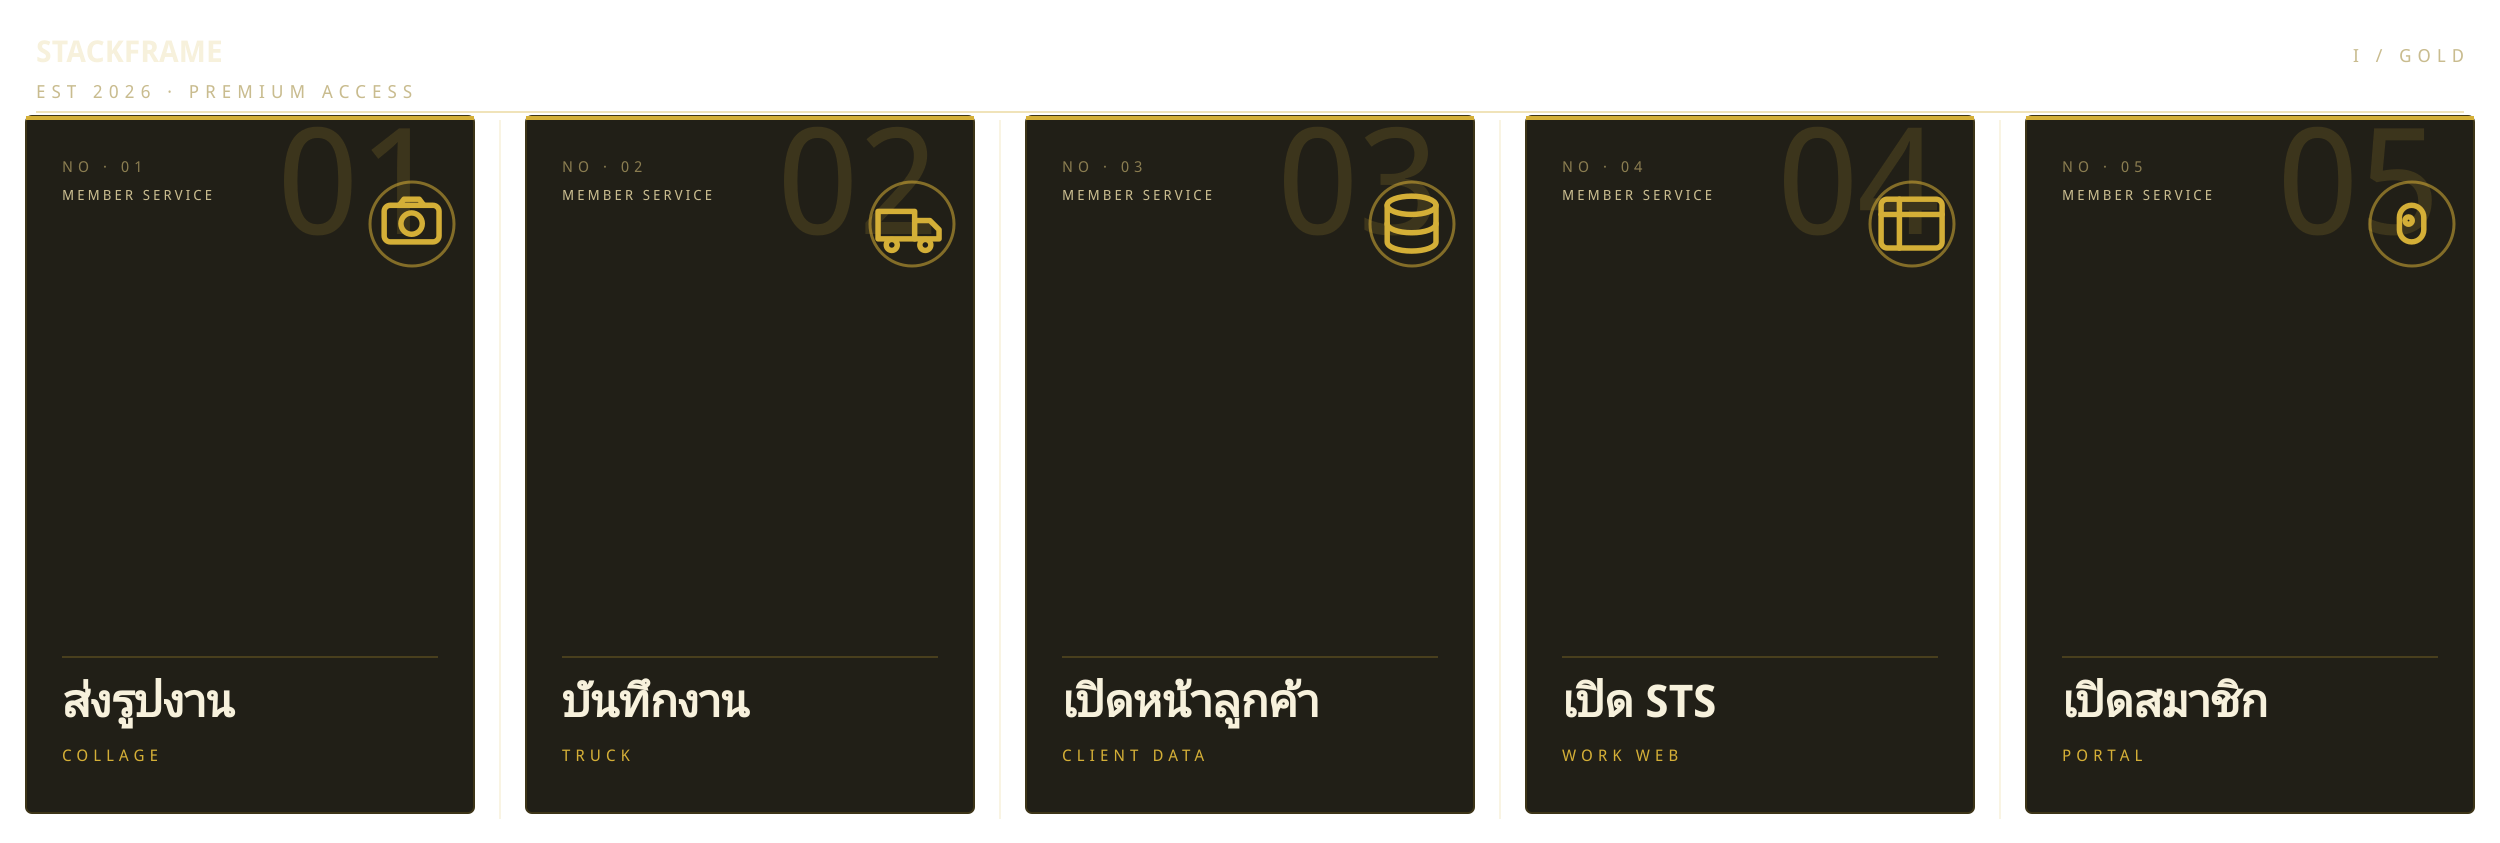
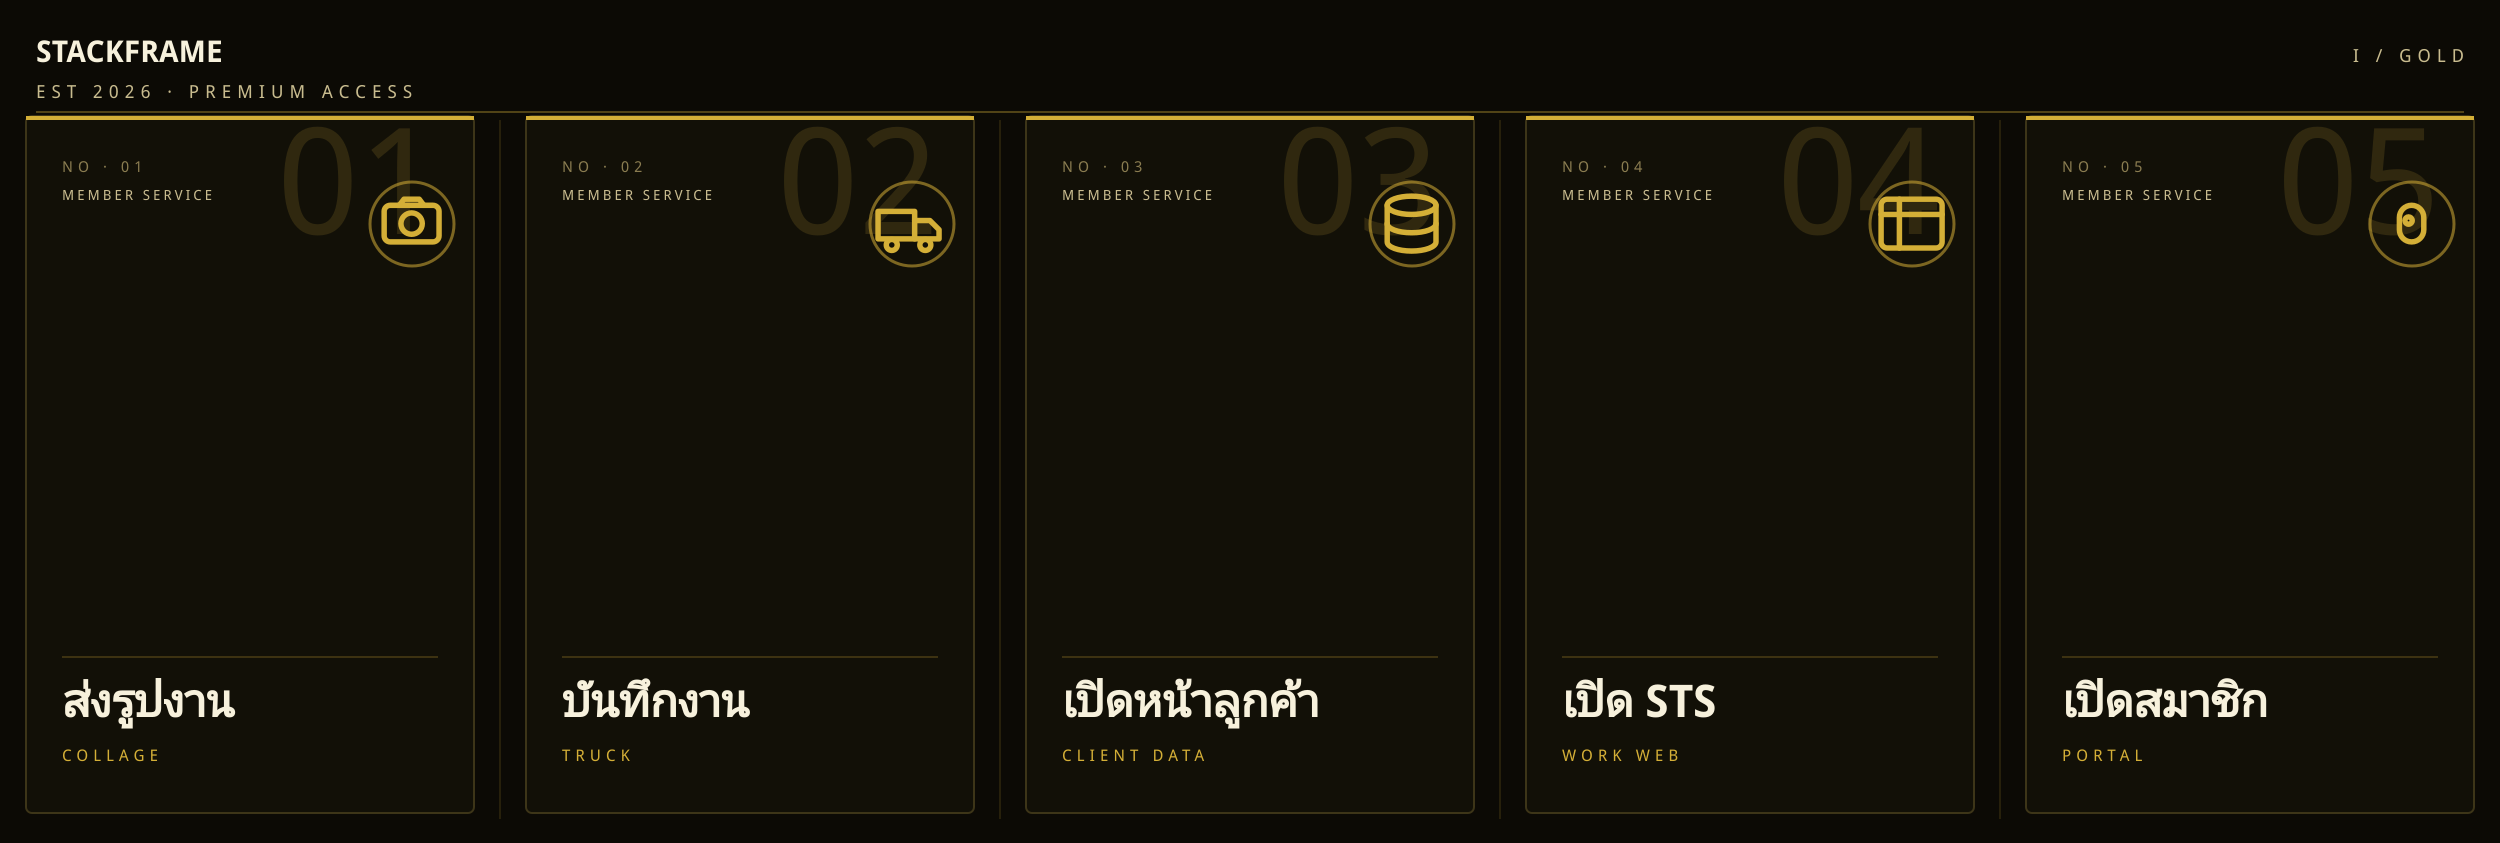
fix(richmenu): eliminate pure #000 pixels - off-black floors + solid backing rects
Pure black (0,0,0) pixels rendered as white on some phones. Fix:
- Solid off-black backing rect under every SVG-gradient base (studio,
  editorial, mono, gold) so sharp never leaves transparent-\>black pixels
- TYPO palette bg changed #000000 -> #0a0a0a..#121212
- NEO: 10% off-black lift over the whole composite
Verified all 9 variants now have 0.0000% pure-#000 pixels.
Redeployed ROYAL GOLD as default.

Changed region(s): [[0.0, 0.0, 1.0, 1.0]]

diff --git a/frontend/previews/richmenu/index.html b/frontend/previews/richmenu/index.html
@@ -1,5 +1,5 @@
 <!doctype html><html lang="th"><head><meta charset="utf-8"><meta name="viewport" content="width=device-width,initial-scale=1">
-<title>Rich menu redesign · 5 concepts</title>
+<title>Rich menu redesign · 9 concepts</title>
 <style>
   :root{--bg:#0d0d10;--ink:#f4f4f0;--dim:#a1a1a8;--line:#2a2a32;--acc:#c7f464}
   *{box-sizing:border-box}body{margin:0;background:var(--bg);color:var(--ink);font:15px/1.5 system-ui,-apple-system,'Segoe UI',Roboto,sans-serif}
@@ -15,7 +15,7 @@
   footer code{background:#1e2129;padding:2px 6px;border-radius:6px}
 </style></head><body>
 <header><h1>Rich menu redesign · STACK<span style="color:var(--acc)">//</span>FRAME</h1>
-<p>5 concepts, 2500×843, black backgrounds. Tap areas identical in all: 5 ปุ่มเรียงแถวเดียว (ส่งรูปงาน LIFF · บันทึกงาน truck · เปิดหน้าลูกค้า data · เปิด STS oms.cfwenterprise.com/sts · เปิดสมาชิก me.mcky.space)</p></header>
+<p>9 concepts, 2500×843, black backgrounds. Tap areas identical in all: 5 ปุ่มเรียงแถวเดียว (ส่งรูปงาน LIFF · บันทึกงาน truck · เปิดหน้าลูกค้า data · เปิด STS oms.cfwenterprise.com/sts · เปิดสมาชิก me.mcky.space)</p></header>
 <div class="grid">
 <div class="card"><img src="b-neo-web.jpg" alt="NEO GRID">
 <div class="meta"><b>NEO GRID</b><span>NEON CYAN x MAGENTA</span></div>
@@ -27,7 +27,15 @@
 <div class="meta"><b>EDITORIAL</b><span>DARK POSTER / HIGH CONTRAST</span></div>
 <p class="note">Full size: <a href="d-editorial.png" style="color:#7db8ff">d-editorial.png</a></p></div><div class="card"><img src="e-mono-web.jpg" alt="MONO TYPE">
 <div class="meta"><b>MONO TYPE</b><span>MONOCHROME · BIG TYPE</span></div>
-<p class="note">Full size: <a href="e-mono.png" style="color:#7db8ff">e-mono.png</a></p></div>
+<p class="note">Full size: <a href="e-mono.png" style="color:#7db8ff">e-mono.png</a></p></div><div class="card"><img src="f-noir-web.jpg" alt="NOIR NIGHTS">
+<div class="meta"><b>NOIR NIGHTS</b><span>FILM NOIR / CRIMSON NEON</span></div>
+<p class="note">Full size: <a href="f-noir.png" style="color:#7db8ff">f-noir.png</a></p></div><div class="card"><img src="g-volt-web.jpg" alt="SITE VOLT">
+<div class="meta"><b>SITE VOLT</b><span>INDUSTRIAL / HAZARD</span></div>
+<p class="note">Full size: <a href="g-volt.png" style="color:#7db8ff">g-volt.png</a></p></div><div class="card"><img src="h-core-web.jpg" alt="DATA CORE">
+<div class="meta"><b>DATA CORE</b><span>TERMINAL / CYAN TECH</span></div>
+<p class="note">Full size: <a href="h-core.png" style="color:#7db8ff">h-core.png</a></p></div><div class="card"><img src="i-gold-web.jpg" alt="ROYAL GOLD">
+<div class="meta"><b>ROYAL GOLD</b><span>LUXURY / GOLD ON BLACK</span></div>
+<p class="note">Full size: <a href="i-gold.png" style="color:#7db8ff">i-gold.png</a></p></div>
 </div>
 <footer>Render: <code>NODE_PATH=backend/node_modules:frontend/node_modules node scripts/richmenu-designs.cjs</code> · Deploy a pick: <code>--deploy e-mono</code></footer>
 </body></html>
